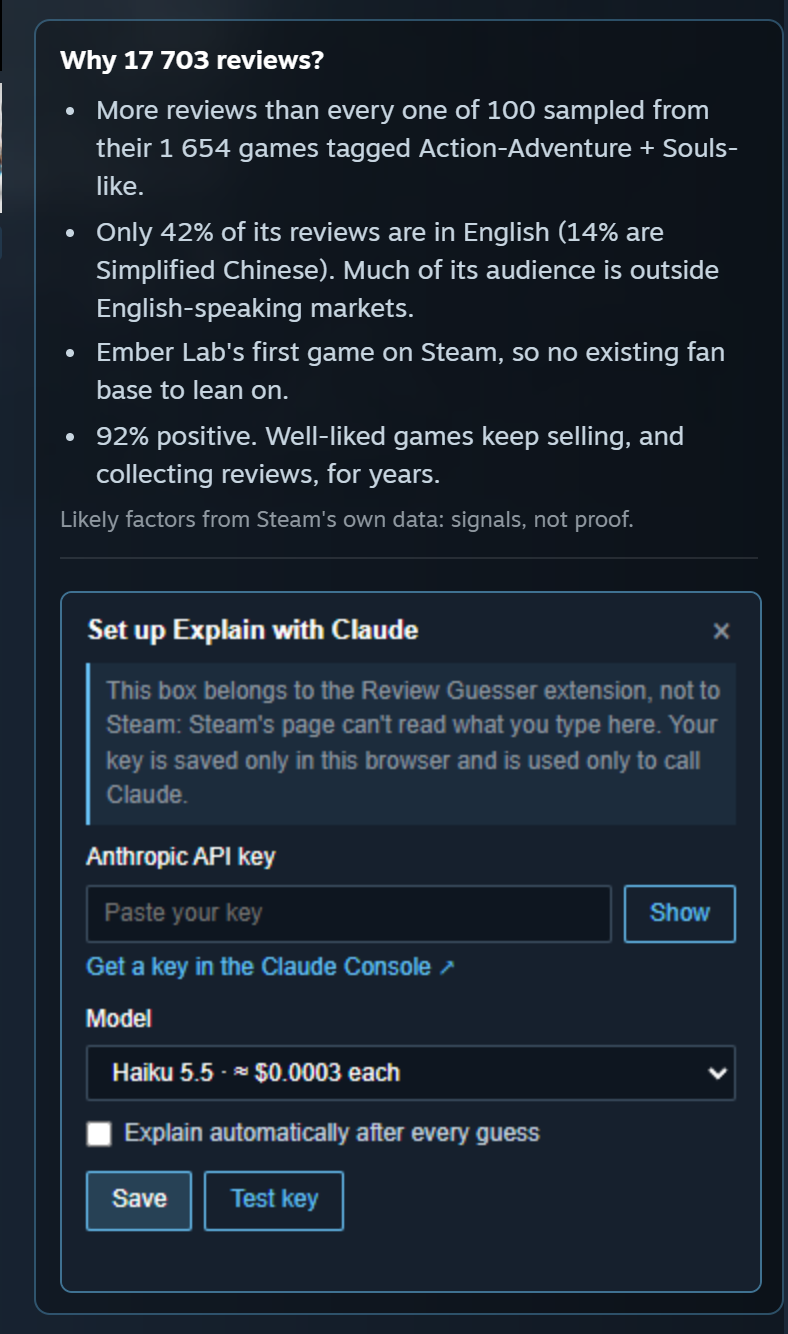
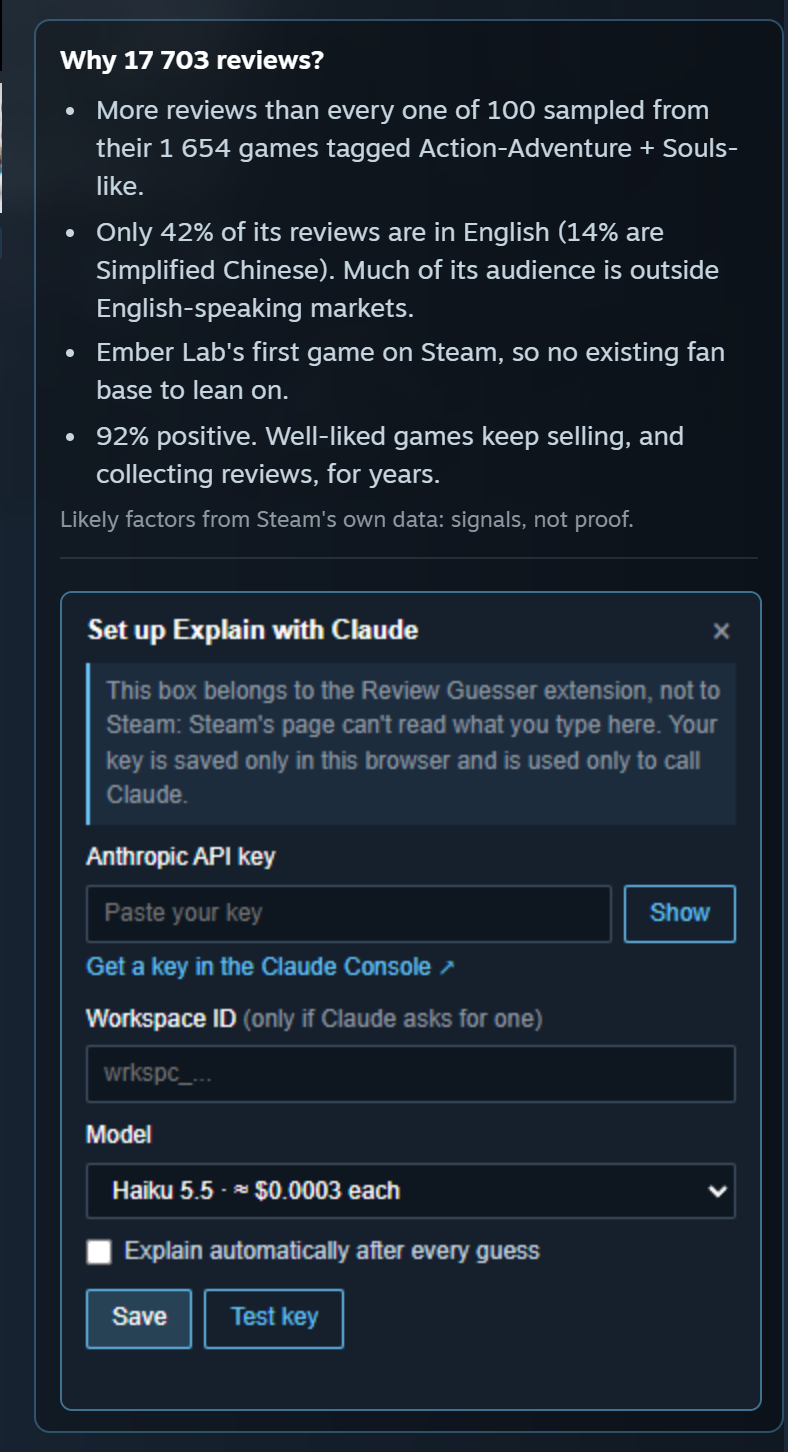
Support multi-workspace API keys; Test key now checks the workspace
Personal keys that can act in several workspaces get "This API key is
not scoped to a workspace" unless each request names one. Settings now
have an optional Workspace ID (wrkspc_...) that's sent as
anthropic-workspace-id, and that error explains both fixes (a
single-workspace key, or the ID).

Test key used to list models, which passes without a workspace; it now
counts tokens for the chosen model, which is still free but goes through
the same key/workspace/model checks as a real request.

Changed region(s): [[0.0609, 0.0307, 0.9746, 1.0]]

diff --git a/src/background.js b/src/background.js
@@ -7,7 +7,7 @@
 // to bundle the SDK into a service worker.
 
 const API_URL = "https://api.anthropic.com/v1/messages";
-const MODELS_URL = "https://api.anthropic.com/v1/models";
+const COUNT_TOKENS_URL = "https://api.anthropic.com/v1/messages/count_tokens";
 
 // Prices per million tokens (input / output), for the cost shown to the user
 const MODELS = {
@@ -27,13 +27,18 @@ const SYSTEM_PROMPT =
   "numbers. Sound appropriately tentative (\"likely\", \"probably\").";
 
 async function getSettings() {
-  const s = await chrome.storage.local.get(["anthropicApiKey", "claudeModel", "claudeAutoExplain"]);
+  const s = await chrome.storage.local.get(["anthropicApiKey", "anthropicWorkspaceId", "claudeModel", "claudeAutoExplain"]);
   const model = MODELS[s.claudeModel] ? s.claudeModel : DEFAULT_MODEL;
-  return { apiKey: s.anthropicApiKey || "", model, autoExplain: !!s.claudeAutoExplain };
+  return {
+    apiKey: s.anthropicApiKey || "",
+    workspaceId: s.anthropicWorkspaceId || "",
+    model,
+    autoExplain: !!s.claudeAutoExplain,
+  };
 }
 
-function headers(apiKey, extra = {}) {
-  return {
+function headers(apiKey, workspaceId, extra = {}) {
+  const h = {
     "content-type": "application/json",
     "x-api-key": apiKey,
     "anthropic-version": "2023-06-01",
@@ -41,7 +46,15 @@ function headers(apiKey, extra = {}) {
     "anthropic-dangerous-direct-browser-access": "true",
     ...extra,
   };
+  // Keys that can act in several workspaces must name one per request
+  if (workspaceId) h["anthropic-workspace-id"] = workspaceId;
+  return h;
 }
+
+const WORKSPACE_HELP =
+  "This key isn't tied to one workspace. Either create a key scoped to a single workspace " +
+  "in the Claude Console, or paste your workspace ID (wrkspc_..., listed at " +
+  "platform.claude.com/settings/workspaces) under Claude settings.";
 
 async function readError(response) {
   let message = "";
@@ -52,13 +65,17 @@ async function readError(response) {
     // not JSON
   }
   if (response.status === 401) return "Your API key was rejected. Check it under Claude settings.";
+  if (/workspace/i.test(message)) {
+    if (response.status === 400) return WORKSPACE_HELP;
+    if (response.status === 404) return "That workspace ID wasn't found, or this key can't use it. Check it under Claude settings.";
+  }
   if (response.status === 429) return "Rate limited by the Claude API. Try again in a moment." + (message ? ` (${message})` : "");
   if (response.status === 529 || response.status >= 500) return "The Claude API is busy right now. Try again shortly.";
   return message || `Claude API error ${response.status}`;
 }
 
 async function explain(facts) {
-  const { apiKey, model } = await getSettings();
+  const { apiKey, workspaceId, model } = await getSettings();
   if (!apiKey) return { error: "No API key set. Add one under Claude settings." };
   const info = MODELS[model];
 
@@ -83,7 +100,7 @@ async function explain(facts) {
 
   let response;
   try {
-    response = await fetch(API_URL, { method: "POST", headers: headers(apiKey, extra), body: JSON.stringify(body) });
+    response = await fetch(API_URL, { method: "POST", headers: headers(apiKey, workspaceId, extra), body: JSON.stringify(body) });
   } catch (err) {
     return { error: "Couldn't reach the Claude API. Check your connection." };
   }
@@ -111,11 +128,19 @@ async function explain(facts) {
   return { text, modelLabel: usedModel, costUSD };
 }
 
-// Free check: listing models needs a valid key but runs no model
-async function testKey(apiKey) {
+// Free check: counting tokens needs a valid key, a usable workspace and access
+// to the model, like a real request, but runs no model and isn't billed
+async function testKey(apiKey, workspaceId, model) {
   if (!apiKey) return { ok: false, message: "Enter a key first." };
   try {
-    const response = await fetch(MODELS_URL, { headers: headers(apiKey) });
+    const response = await fetch(COUNT_TOKENS_URL, {
+      method: "POST",
+      headers: headers(apiKey, workspaceId),
+      body: JSON.stringify({
+        model: MODELS[model] ? model : DEFAULT_MODEL,
+        messages: [{ role: "user", content: "Hello" }],
+      }),
+    });
     if (response.ok) return { ok: true, message: "Key works." };
     return { ok: false, message: await readError(response) };
   } catch (err) {
@@ -133,7 +158,7 @@ chrome.runtime.onMessage.addListener((message, sender, sendResponse) => {
       case "claude-explain":
         return explain(message.facts);
       case "claude-test-key":
-        return testKey(message.apiKey);
+        return testKey(message.apiKey, message.workspaceId, message.model);
       case "open-options":
         await chrome.runtime.openOptionsPage();
         return { ok: true };

diff --git a/src/options.js b/src/options.js
@@ -9,6 +9,7 @@
 const $ = (id) => document.getElementById(id);
 const keyInput = $("apiKey");
 const statusEl = $("status");
+const workspaceInput = $("workspaceId");
 const embedded = window.top !== window;
 const STEAM_ORIGIN = "https://store.steampowered.com";
 
@@ -22,8 +23,9 @@ function setStatus(text, kind) {
 }
 
 async function load() {
-  const s = await chrome.storage.local.get(["anthropicApiKey", "claudeModel", "claudeAutoExplain"]);
+  const s = await chrome.storage.local.get(["anthropicApiKey", "anthropicWorkspaceId", "claudeModel", "claudeAutoExplain"]);
   keyInput.value = s.anthropicApiKey || "";
+  workspaceInput.value = s.anthropicWorkspaceId || "";
   if (s.claudeModel) $("model").value = s.claudeModel;
   $("autoExplain").checked = !!s.claudeAutoExplain;
   if ($("remove")) $("remove").hidden = !s.anthropicApiKey;
@@ -37,12 +39,18 @@ $("toggleKey").addEventListener("click", () => {
 
 $("save").addEventListener("click", async () => {
   const key = keyInput.value.trim();
+  const workspaceId = workspaceInput.value.trim();
   if (!key) {
     setStatus("Paste a key first.", "error");
     return;
   }
+  if (workspaceId && !/^wrkspc_\w+$/.test(workspaceId)) {
+    setStatus("A workspace ID starts with wrkspc_", "error");
+    return;
+  }
   await chrome.storage.local.set({
     anthropicApiKey: key,
+    anthropicWorkspaceId: workspaceId,
     claudeModel: $("model").value,
     claudeAutoExplain: $("autoExplain").checked,
   });
@@ -53,7 +61,12 @@ $("save").addEventListener("click", async () => {
 
 $("test").addEventListener("click", async () => {
   setStatus("Testing…");
-  const reply = await chrome.runtime.sendMessage({ type: "claude-test-key", apiKey: keyInput.value.trim() });
+  const reply = await chrome.runtime.sendMessage({
+    type: "claude-test-key",
+    apiKey: keyInput.value.trim(),
+    workspaceId: workspaceInput.value.trim(),
+    model: $("model").value,
+  });
   setStatus(reply.message, reply.ok ? "ok" : "error");
 });
 

diff --git a/options.html b/options.html
@@ -29,6 +29,9 @@
         <button id="toggleKey" type="button" class="secondary">Show</button>
       </div>
 
+      <label for="workspaceId">Workspace ID <span class="optional">(only if Claude asks for one)</span></label>
+      <input id="workspaceId" type="text" autocomplete="off" spellcheck="false" placeholder="wrkspc_...">
+
       <label for="model">Model</label>
       <select id="model">
         <option value="claude-haiku-5-5">Claude Haiku 5.5 (cheapest, ≈ $0.0003 per explanation)</option>
@@ -55,7 +58,7 @@
         <li>It is stored only in this browser profile (<code>chrome.storage.local</code>). It is never written to the extension's files, so forks and copies of this repo don't contain it.</li>
         <li>Requests go straight from the extension's background worker to <code>api.anthropic.com</code>; Steam's pages never see the key.</li>
         <li>Each explanation is billed to your Anthropic account. Use a dedicated key and set a monthly spend limit in the Claude Console (platform.claude.com).</li>
-        <li>"Test key" only lists models, which is free.</li>
+        <li>"Test key" checks the key, workspace and model by counting tokens, which is free; it doesn't run Claude.</li>
       </ul>
     </section>
   </main>

diff --git a/setup.html b/setup.html
@@ -24,6 +24,9 @@
   </div>
   <a class="help" href="https://platform.claude.com" target="_blank" rel="noopener noreferrer">Get a key in the Claude Console ↗</a>
 
+  <label for="workspaceId">Workspace ID <span class="optional">(only if Claude asks for one)</span></label>
+  <input id="workspaceId" type="text" autocomplete="off" spellcheck="false" placeholder="wrkspc_...">
+
   <label for="model">Model</label>
   <select id="model">
     <option value="claude-haiku-5-5">Haiku 5.5 · ≈ $0.0003 each</option>
@@ -38,7 +41,7 @@
 
   <div class="row actions">
     <button id="save" type="button">Save</button>
-    <button id="test" type="button" class="secondary" title="Checks the key by listing models (free)">Test key</button>
+    <button id="test" type="button" class="secondary" title="Checks the key, workspace and model without running Claude (free)">Test key</button>
     <button id="remove" type="button" class="link" hidden>Remove key</button>
   </div>
   <div id="status" role="status"></div>

diff --git a/setup.css b/setup.css
@@ -74,3 +74,5 @@ button.icon:hover { color: var(--strong); background: none; }
 #status { margin-top: 6px; min-height: 1em; }
 #status.ok { color: var(--ok); }
 #status.error { color: var(--error); }
+
+.optional { color: var(--muted); font-weight: 400; }

diff --git a/options.css b/options.css
@@ -89,3 +89,5 @@ code { color: var(--text); }
   color: var(--muted);
 }
 .trust strong { color: var(--text); font-weight: 500; }
+
+.optional { color: var(--muted); font-weight: 400; }

diff --git a/README.md b/README.md
@@ -101,7 +101,7 @@ Below the insight, **Explain with Claude** sends the same facts to Claude and sh
 
 1. Create an API key in the Claude Console (platform.claude.com). A dedicated key with a monthly spend limit is a good idea. *(On a Max or Team plan, link your Console organization under claude.ai → Settings → Billing → API credits so the key spends your plan's monthly API credits.)*
 2. Guess on any game, then click **Explain with Claude: set up your API key** under the insight. A setup box opens right there on the page.
-3. Paste the key, pick a model, click **Save**. **Test key** checks it for free. **Claude settings** under the insight reopens the box later.
+3. Paste the key, pick a model, click **Save**. **Test key** checks the key, workspace and model for free (it counts tokens; Claude doesn't run). If Claude says the key "is not scoped to a workspace", either create a key for a single workspace in the Console, or paste your workspace ID (`wrkspc_…`, listed at platform.claude.com/settings/workspaces) into **Workspace ID**. **Claude settings** under the insight reopens the box later.
 
 ![The setup box inside the insight on Steam's page](images/ClaudeSetup.png)
 
